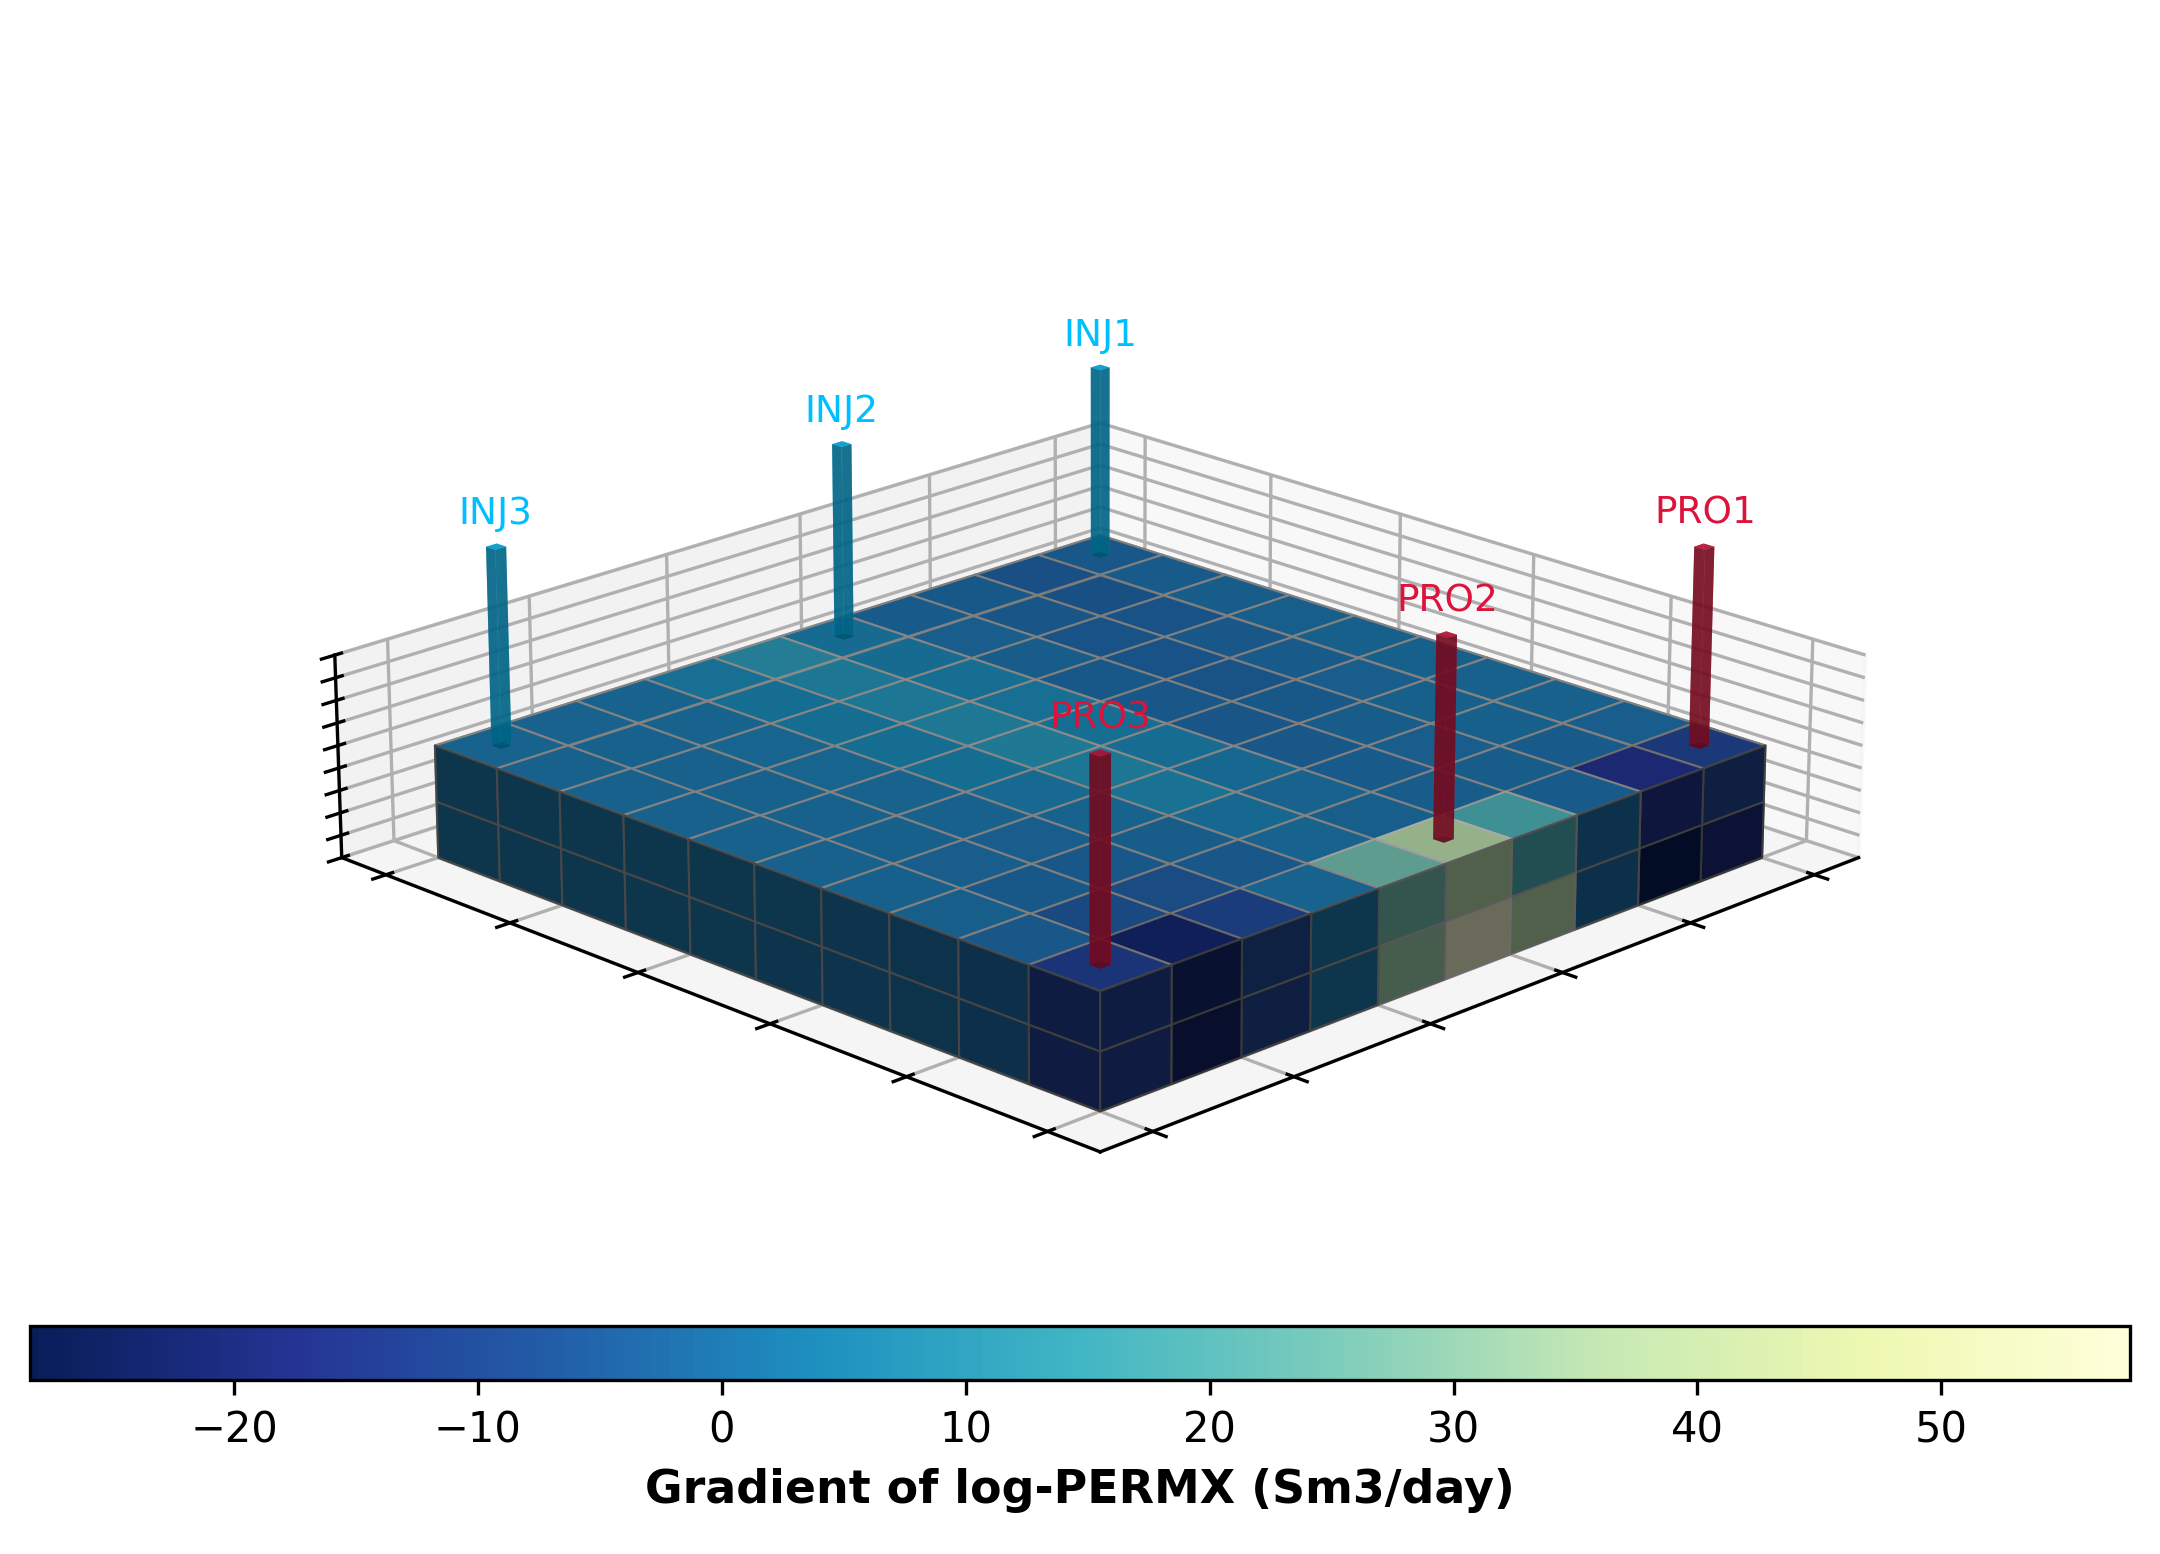
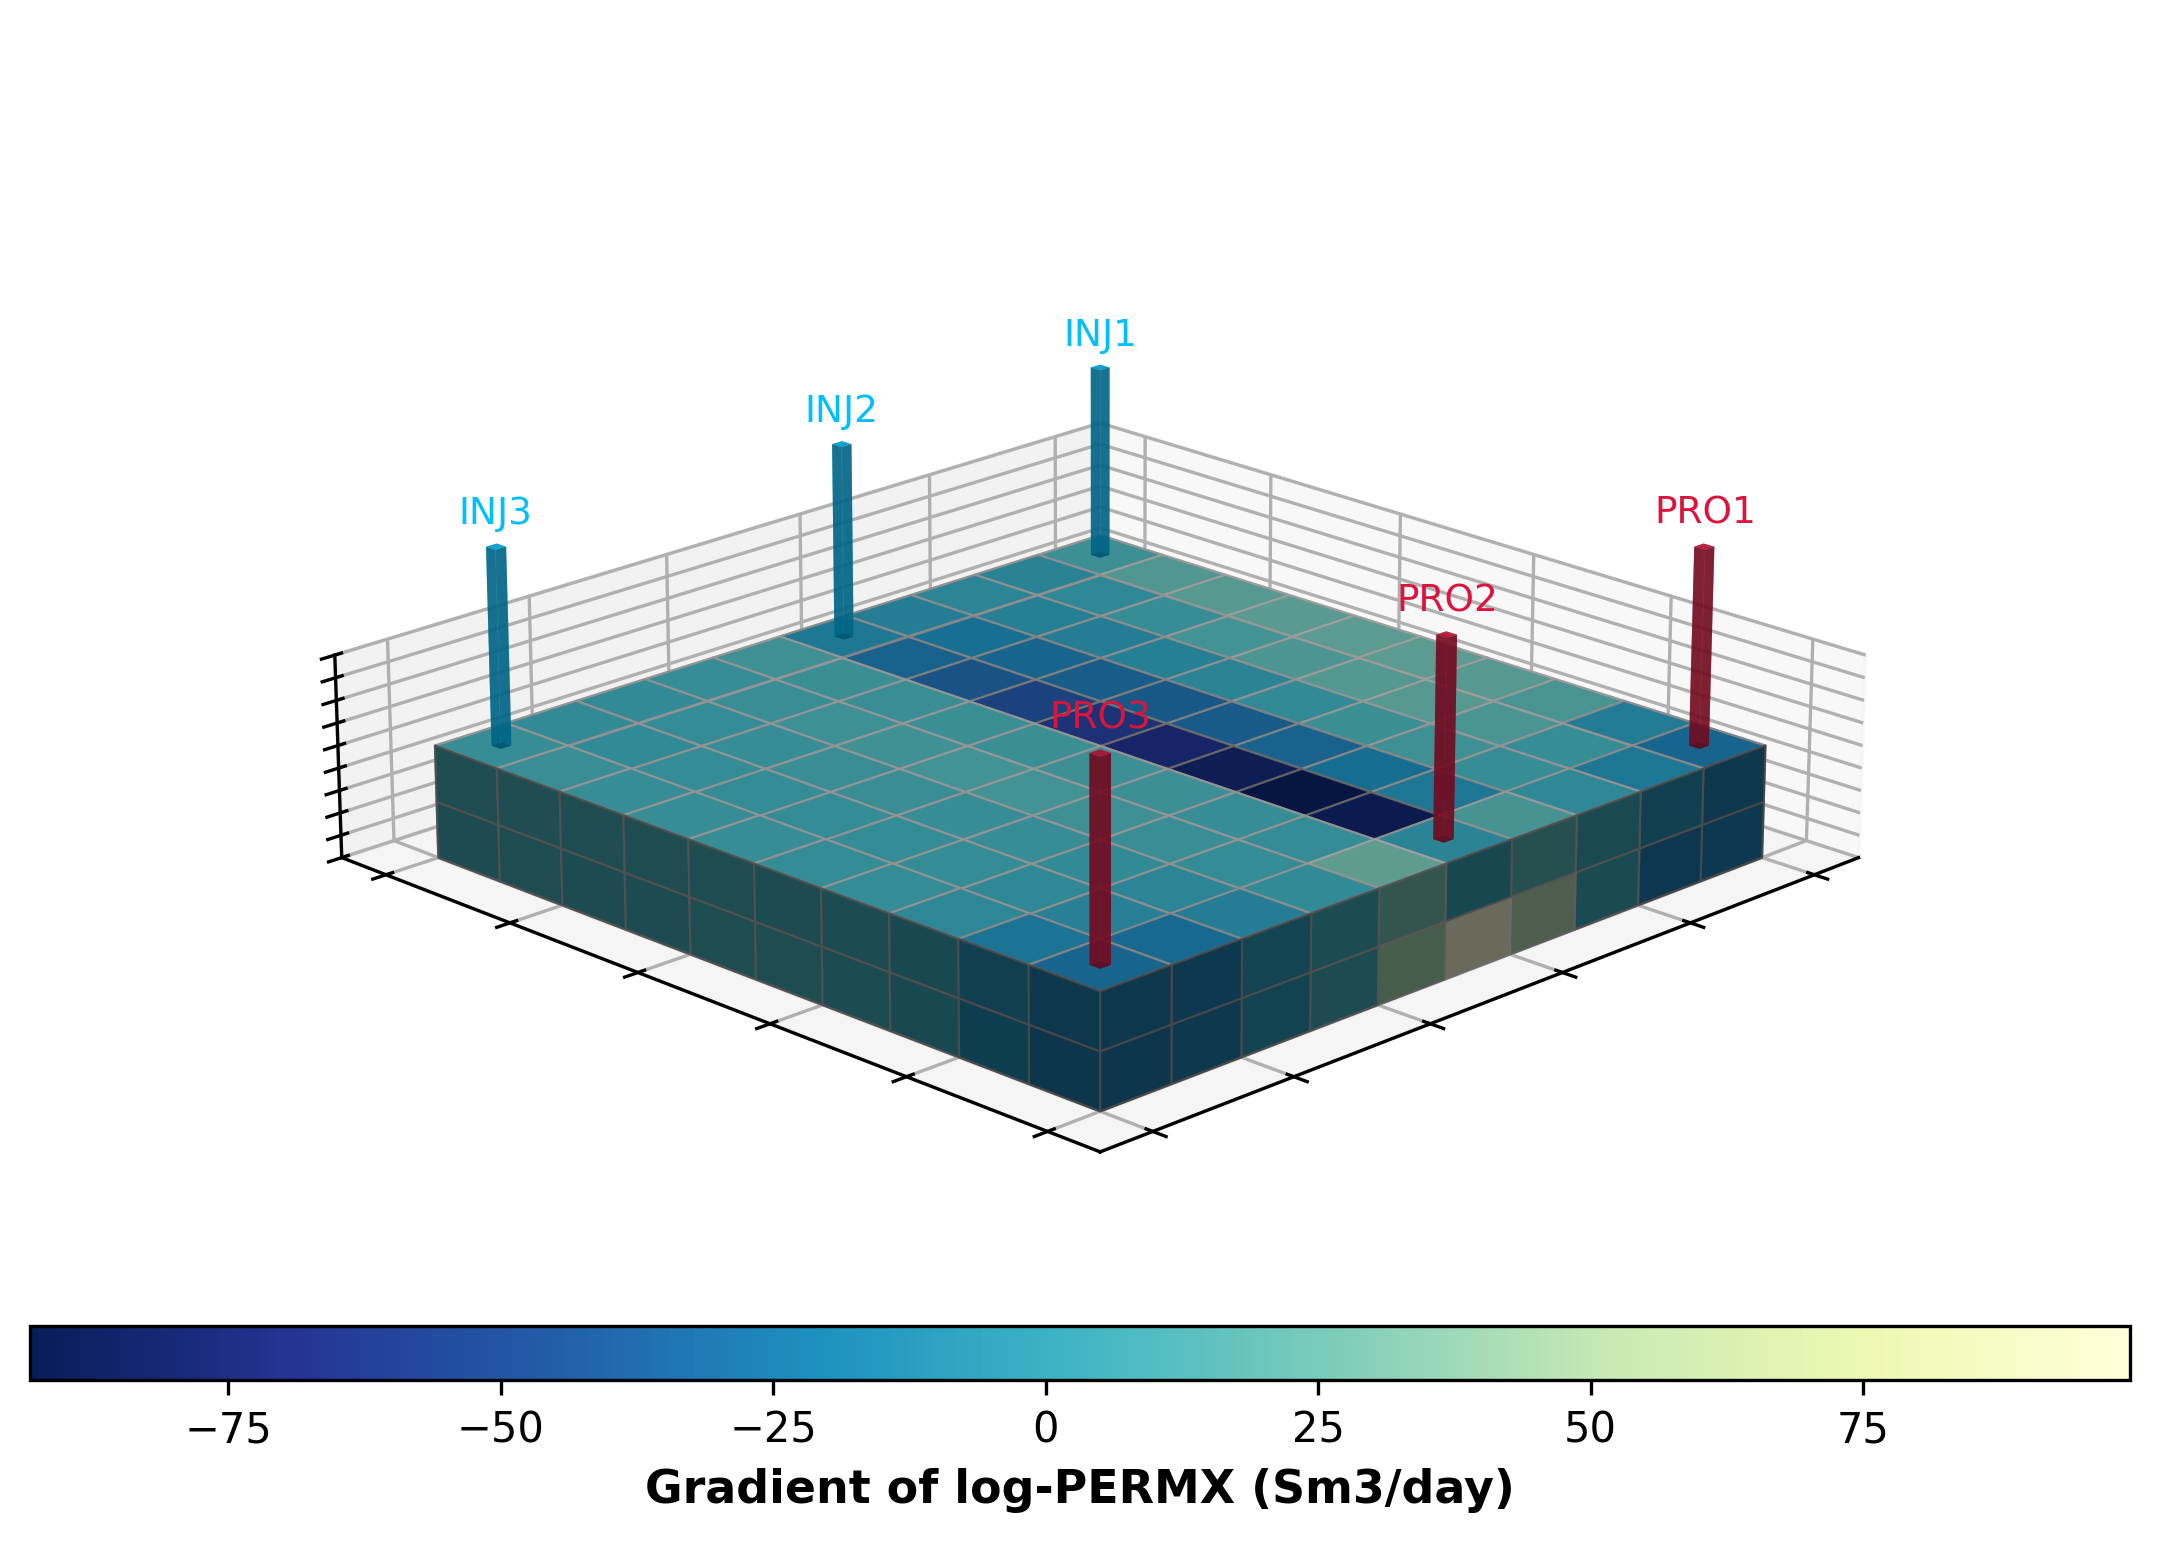
Some fixes

diff --git a/src/subsurface/multphaseflow/jutul_darcy.py b/src/subsurface/multphaseflow/jutul_darcy.py
@@ -85,6 +85,13 @@ class JutulDarcy:
 
             - ``parallel`` : int, optional
                 Number of processes for ensemble simulations. Default is ``1``.
+
+            - ``perm_copied`` : bool, optional
+                If ``True``, interpret sensitivity to ``permx`` as a copied
+                parameterization where ``PERMY`` and ``PERMZ`` are derived from
+                ``PERMX`` (for example via ECLIPSE ``COPY``). This makes
+                ``dJ/dPERMX`` include contributions from all copied directions.
+                Default is ``False``.
         """
         # Check runfile
         runfile = options.get('runfile')
@@ -116,8 +123,15 @@ class JutulDarcy:
 
         # Other options
         self.output_format = options.get('output_format', 'dataframe') # list, dict or dataframe
-        self.adjoint_pbar = options.get('adjoint_pbar', True)
+        self.adjoint_pbar = options.get('adjoint_pbar', False)
         self.parallel = options.get('parallel', 1)
+        self.perm_copied = options.get('perm_copied', False)
+        self.adjoint_mode = options.get('adjoint_mode', 'sensitivities').lower()
+        self.optimization_targets = options.get('optimization_targets', None)
+
+        valid_adjoint_modes = {'sensitivities', 'optimization'}
+        if self.adjoint_mode not in valid_adjoint_modes:
+            raise ValueError(f"Invalid adjoint_mode '{self.adjoint_mode}'. Must be one of {sorted(valid_adjoint_modes)}")
 
         # This is for PET to work properly
         self.input_dict = options
@@ -190,6 +204,8 @@ class JutulDarcy:
 
             return results, adjoints
         else:
+            if len(inputs) == 1:
+                outputs = outputs[0]
             return outputs
                      
 
@@ -198,7 +214,7 @@ class JutulDarcy:
         # Import Julia and JutulDarcy (this needs to be done here for multiprocessing to work properly)
         from juliacall import Main as julia
         julia.seval('using JutulDarcy, Jutul')
-        
+
         # Make simulation folder
         folder = f'En_{idn}'
         os.makedirs(folder)
@@ -332,16 +348,27 @@ class JutulDarcy:
                 julia.res = jlres
                 for i, func in enumerate(funcs):
                     julia.func = func
-                    grad = julia.seval("""
-                    redirect_stdout(devnull) do
-                        redirect_stderr(devnull) do
-                            JutulDarcy.reservoir_sensitivities(
-                                case, res, func,
-                                include_parameters=true,           
-                            )
+                    if self.adjoint_mode == 'sensitivities':
+                        grad = julia.seval("""
+                        redirect_stdout(devnull) do
+                            redirect_stderr(devnull) do
+                                JutulDarcy.reservoir_sensitivities(
+                                    case, res, func,
+                                    include_parameters=true
+                                )
+                            end
                         end
-                    end
-                    """)
+                        """)
+                    else:
+                        grad = julia.seval("""
+                        redirect_stdout(devnull) do
+                            redirect_stderr(devnull) do
+                                dprm_case = JutulDarcy.setup_reservoir_dict_optimization(case, verbose = false)
+                                JutulDarcy.free_optimization_parameters!(dprm_case)
+                                JutulDarcy.parameters_gradient_reservoir(dprm_case, func, deps=:case)
+                            end
+                        end
+                        """)
 
                     # Evaluate function value for this objective at this time step and store in dict (for checking)
                     func_val = None
@@ -361,7 +388,7 @@ class JutulDarcy:
 
                     # Extract parameter sensitivities for this objective and store in dict
                     for param in info['parameters']:
-                        grad_param = _extract_adjoint(grad, case, param, actnum_vec, info['is_rate'], julia)
+                        grad_param = _extract_adjoint(grad, case, param, actnum_vec, self.perm_copied, julia)
                         grad_dict[(col, param)].append(grad_param)
 
             if self.adjoint_pbar:
@@ -469,31 +496,92 @@ class JutulDarcy:
 
 
                
-def _extract_adjoint(jlgrad, jlcase, parameter, actnum, is_rate, julia):
-     
-    if 'poro' in parameter.lower():
-        adjoint = np.asarray(jlgrad[julia.Symbol("porosity")]) # F-order array (only active cells)
+def _extract_adjoint(jlgrad, jlcase, parameter, actnum, perm_copied, julia):
+    param_lower = parameter.lower()
+
+    if 'poro' in param_lower:
+        poro_grad = _find_nested_entry(jlgrad, ['porosity'], julia)
+        if poro_grad is None:
+            raise ValueError(f"Could not find porosity gradient for parameter '{parameter}'")
+        adjoint = np.asarray(poro_grad)
         adjoint = _active_to_full_grid(adjoint, actnum)
+    
+    elif 'perm' in param_lower:
+        log_scale = 'log' in param_lower
+        perm_grad = _find_nested_entry(jlgrad, ['permeability'], julia)
 
-    elif 'perm' in parameter.lower():
-        adjoint = np.asarray(jlgrad[julia.Symbol("permeability")]) # F-order array (only active cells)
+        if perm_grad is None:
+            raise ValueError(f"Could not find permeability gradient for parameter '{parameter}'")
         
-        if 'permx' in parameter.lower(): index = 0
-        if 'permy' in parameter.lower(): index = 1
-        if 'permz' in parameter.lower(): index = 2
-        
-        adjoint = _active_to_full_grid(adjoint[index], actnum) # SI: per m2, convert to per mD
-
-        if 'log' in parameter.lower():
-            perm = np.array(jlcase.input_data['GRID'][['PERMX', 'PERMY', 'PERMZ'][index]])
-            adjoint = adjoint * perm.flatten(order='F')
-            # Note: For dJ/dlog(perm) = dJ/dperm * perm, no need to convert from m2 to mD.
+        full_adjoint = np.asarray(perm_grad)
+        if perm_copied:
+            adjoint = np.zeros(actnum.shape, dtype=np.float64)
+            for i in range(3):
+                adj = _active_to_full_grid(full_adjoint[i], actnum)
+                if log_scale:
+                    perm = np.array(jlcase.input_data['GRID'][['PERMX', 'PERMY', 'PERMZ'][i]])
+                    adj = adj * perm.flatten(order='F')
+                else:
+                    adj = adj * julia.seval('si_unit(:milli)*si_unit(:darcy)')
+                adjoint += adj
         else:
-            adjoint = adjoint * julia.seval('si_unit(:milli)*si_unit(:darcy)')
+            perm_idx = {'permx': 0, 'permy': 1, 'permz': 2}
+            idx = next((v for k, v in perm_idx.items() if k in param_lower), None)
+            
+            if idx is None:
+                raise ValueError(f"Adjoint not implemented for parameter '{parameter}'")
+            
+            adjoint = _active_to_full_grid(full_adjoint[idx], actnum)
+            if log_scale:
+                perm = np.array(jlcase.input_data['GRID'][['PERMX', 'PERMY', 'PERMZ'][idx]])
+                adjoint = adjoint * perm.flatten(order='F')
+            else:
+                adjoint = adjoint * julia.seval('si_unit(:milli)*si_unit(:darcy)')
+    
     else:
         raise ValueError(f"Adjoint not implemented for parameter '{parameter}'")
-
+    
     return adjoint
+
+
+def _get_mapping_value(obj, key_name, julia):
+    for candidate in (julia.Symbol(key_name), key_name):
+        try:
+            if julia.haskey(obj, candidate):
+                return obj[candidate]
+        except Exception:
+            continue
+    return None
+
+
+def _find_nested_entry(root, key_candidates, julia):
+    queue = [root]
+    visited = set()
+
+    while queue:
+        obj = queue.pop(0)
+        obj_id = id(obj)
+        if obj_id in visited:
+            continue
+        visited.add(obj_id)
+
+        for key in key_candidates:
+            val = _get_mapping_value(obj, key, julia)
+            if val is not None:
+                return val
+
+        try:
+            for k in list(julia.keys(obj)):
+                try:
+                    sub = obj[k]
+                except Exception:
+                    continue
+                queue.append(sub)
+        except Exception:
+            continue
+
+    return None
+
         
 
 def _active_to_full_grid(vec, actnum_vec, fill_value=0.0):

diff --git a/Example/TINY/test_grad.py b/Example/TINY/test_grad.py
@@ -12,7 +12,7 @@ def test_finite_difference_gradient(run_fda=True, run_adjoint=True, folder='TEST
     datapoint = 'WOPR:PRO2'
     date = datetime(2032, 12, 14)
     options = {
-        'parallel': 50,
+        'parallel': 5,
         'datatype': [datapoint],
         'reporttype': 'dates',
         'reportpoint': [date],
@@ -20,8 +20,9 @@ def test_finite_difference_gradient(run_fda=True, run_adjoint=True, folder='TEST
         'startdate': datetime(2022, 1, 1),
         'adjoint_pbar': False,
         'adjoints': {'WOPR': 
-            {'steps': [date], 'wellID': 'PRO2', 'parameters': 'permx'}
+            {'steps': [date], 'wellID': 'PRO2', 'parameters': 'poro'}
         },
+        'perm_copied': True, 
     }
 
     os.makedirs(folder, exist_ok=True)
@@ -29,7 +30,7 @@ def test_finite_difference_gradient(run_fda=True, run_adjoint=True, folder='TEST
     # Load PERMX 
     permx = np.load('PERMX.npy')
 
-    reps = 0.01 # Relevant perturbation size for finite difference approximation (1%)
+    reps = 0.01 # Relative perturbation size for finite difference approximation (0.5%)
     if run_fda: 
         # Calculate finite difference gradient
         kw = dict(options)
@@ -65,13 +66,8 @@ def test_finite_difference_gradient(run_fda=True, run_adjoint=True, folder='TEST
     # Analyze results
     results_p = PETDataFrame.from_pickle(os.path.join(folder, 'results_p.pkl')).loc[date, datapoint]
     results_m = PETDataFrame.from_pickle(os.path.join(folder, 'results_m.pkl')).loc[date, datapoint]
-    grad_fda = (results_p - results_m)/(2*reps*permx)
+    grad_fda = (results_p - results_m)/(2*reps*permx)  # Finite difference approximation of gradient
     grad_adj = PETDataFrame.from_pickle(os.path.join(folder, 'adjoint.pkl')).loc[date, (datapoint, 'permx')]
-
-    relative_error = np.linalg.norm(grad_fda - grad_adj)/np.linalg.norm(grad_fda)
-    print(f"Relative error: {relative_error:.4e}")
-    print(f"Norm of FDA gradient: {np.linalg.norm(grad_fda):.4e}")
-    print(f"Norm of adjoint gradient: {np.linalg.norm(grad_adj):.4e}")
 
     # Plot FDA vs adjoint gradient on grid
     nx = 10
@@ -81,25 +77,28 @@ def test_finite_difference_gradient(run_fda=True, run_adjoint=True, folder='TEST
     grad_adj_grid = grad_adj.reshape((nx, ny, nz), order='F')
 
     fig, axes = plt.subplots(2, 2, figsize=(10, 8), dpi=140)
-    cmap = 'YlGnBu_r'
+    cmap = 'seismic'
 
     # im0: Finite difference gradient for layer 1
-    im0 = axes[0, 0].imshow(grad_fda_grid[:, :, 0], cmap=cmap)
+    maxv = np.max(np.abs(grad_adj_grid[:, :, 0]))
+    im0 = axes[0, 0].imshow(grad_fda_grid[:, :, 0], cmap=cmap, vmin=-maxv, vmax=maxv)
     axes[0, 0].set_title('FDA Gradient (Layer 1)', fontsize=11)
     fig.colorbar(im0, ax=axes[0, 0], fraction=0.046, pad=0.04)
 
     # im1: Adjoint gradient for layer 1
-    im1 = axes[0, 1].imshow(grad_adj_grid[:, :, 0], cmap=cmap)
+    im1 = axes[0, 1].imshow(grad_adj_grid[:, :, 0], cmap=cmap, vmin=-maxv, vmax=maxv)
     axes[0, 1].set_title('Adjoint Gradient (Layer 1)', fontsize=11)
     fig.colorbar(im1, ax=axes[0, 1], fraction=0.046, pad=0.04)
 
+
     # im2: Finite difference gradient for layer 2
-    im2 = axes[1, 0].imshow(grad_fda_grid[:, :, 1], cmap=cmap)
+    maxv = np.max(np.abs(grad_adj_grid[:, :, 1]))
+    im2 = axes[1, 0].imshow(grad_fda_grid[:, :, 1], cmap=cmap, vmin=-maxv, vmax=maxv)
     axes[1, 0].set_title('FDA Gradient (Layer 2)', fontsize=11)
     fig.colorbar(im2, ax=axes[1, 0], fraction=0.046, pad=0.04)
 
     # im3: Adjoint gradient for layer 2
-    im3 = axes[1, 1].imshow(grad_adj_grid[:, :, 1], cmap=cmap)
+    im3 = axes[1, 1].imshow(grad_adj_grid[:, :, 1], cmap=cmap, vmin=-maxv, vmax=maxv)
     axes[1, 1].set_title('Adjoint Gradient (Layer 2)', fontsize=11)
     fig.colorbar(im3, ax=axes[1, 1], fraction=0.046, pad=0.04)
 
@@ -111,13 +110,27 @@ def test_finite_difference_gradient(run_fda=True, run_adjoint=True, folder='TEST
     fig.savefig(os.path.join(folder, 'fda_vs_adjoint_gradient.png'), dpi=300)
     #plt.show()
 
+    grad_fda_vec = grad_fda_grid.flatten(order='F')
+    grad_adj_vec = grad_adj_grid.flatten(order='F')
+
+    relative_error = np.linalg.norm(grad_fda_vec - grad_adj_vec) / np.linalg.norm(grad_adj_vec)
+    print(f"Relative error between FDA and adjoint gradients: {relative_error:.4e}")
+    print(f"Norm of FDA gradient: {np.linalg.norm(grad_fda_vec):.4e}")
+    print(f"Norm of adjoint gradient: {np.linalg.norm(grad_adj_vec):.4e}")
+
+
+    rtol = grad_adj_vec.size * np.finfo(float).eps * 100  # Relative tolerance scaled by size of gradient vector
+    atol = 1e-2 * np.linalg.norm(grad_adj_vec)  #
+    print(f"Using rtol={rtol:.4e} and atol={atol:.4e} for np.testing.assert_allclose")
+    np.testing.assert_allclose(grad_fda_vec, grad_adj_vec, rtol=rtol, atol=atol)
+
 
 def test_sens_matrix_of_log_permx(run=True, folder='TEST'):
 
     datapoint = 'WOPR:PRO2'
     date = datetime(2032, 12, 14)
     options = {
-        'parallel': 50,
+        'parallel': 5,
         'datatype': [datapoint],
         'reporttype': 'dates',
         'reportpoint': [date],
@@ -269,5 +282,5 @@ def test_sens_matrix_of_log_permx(run=True, folder='TEST'):
 
 
 if __name__ == "__main__":
-    test_finite_difference_gradient(run_fda=False, run_adjoint=True, folder='TEST/TEMP')
+    test_finite_difference_gradient(run_fda=True, run_adjoint=True, folder='TEST/TEMP')
     #test_sens_matrix_of_log_permx(run=True, folder='TEST/SENS_WOPR_LOG_PERMX_SUBSTATES')